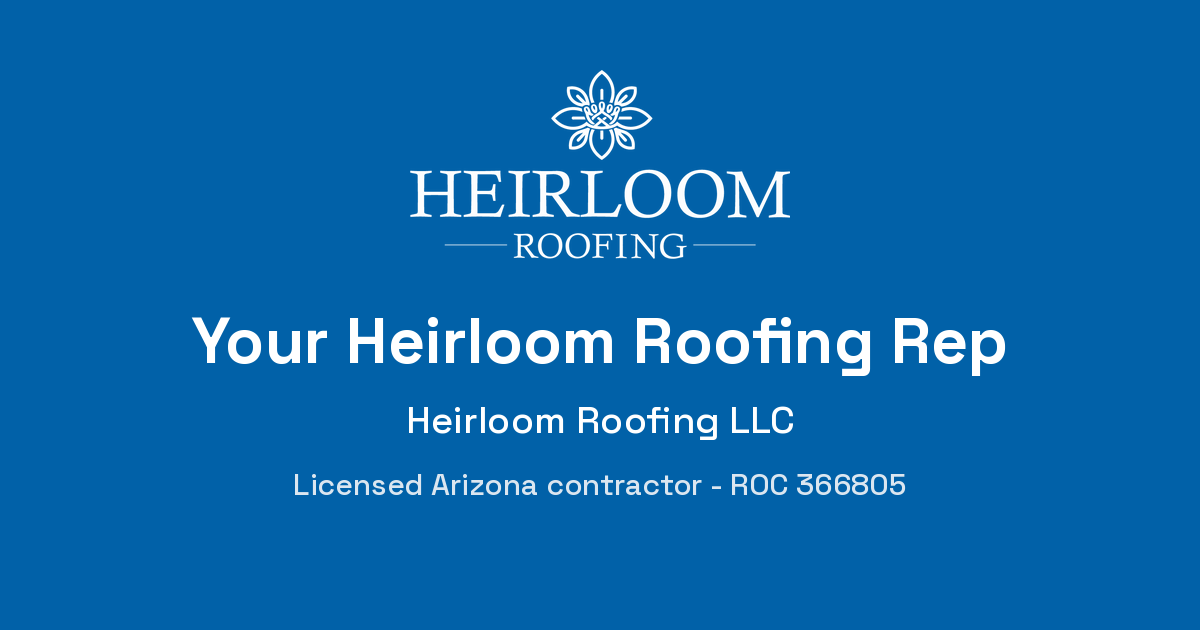
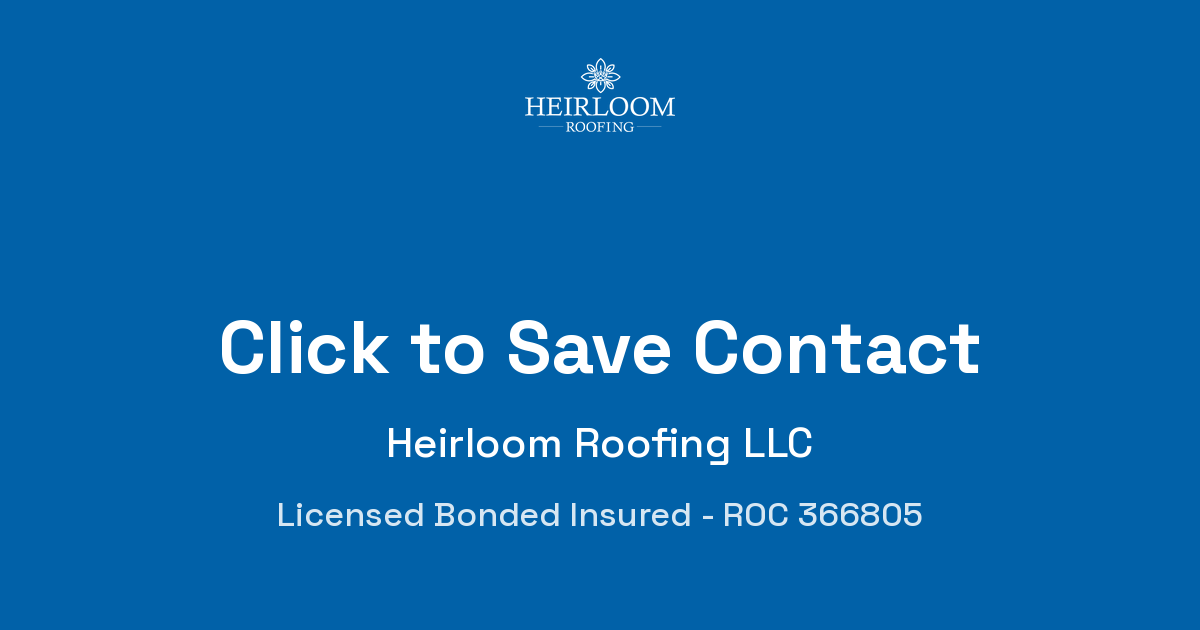
Preview: Click to Save Contact headline, Licensed Bonded Insured credential line

Changed region(s): [[0.2158, 0.6333, 0.7708, 0.8444], [0.1542, 0.4825, 0.8633, 0.6032], [0.3392, 0.0905, 0.6783, 0.4222]]

diff --git a/kit/card.html b/kit/card.html
@@ -6,12 +6,12 @@
 <title>Your Heirloom Roofing Rep</title>
 <meta name="description" content="Save your Heirloom Roofing rep's contact and text them directly.">
 <meta property="og:type" content="website">
-<meta property="og:title" content="Your Heirloom Roofing Rep">
+<meta property="og:title" content="Click to Save Contact">
 <meta property="og:description" content="Save your Heirloom Roofing rep's contact and text them directly.">
 <meta property="og:url" content="https://heirloomroofing.github.io/kit/card.html">
 <meta property="og:image" content="https://heirloomroofing.github.io/kit/share-card.png">
 <meta name="twitter:card" content="summary_large_image">
-<meta name="twitter:title" content="Your Heirloom Roofing Rep">
+<meta name="twitter:title" content="Click to Save Contact">
 <meta name="twitter:image" content="https://heirloomroofing.github.io/kit/share-card.png">
 <style>
   :root { --brand:#0161A8; --brand-dark:#014e85; --ink:#1c2b36; --muted:#5a6b78; --paper:#f7f5f0; }
